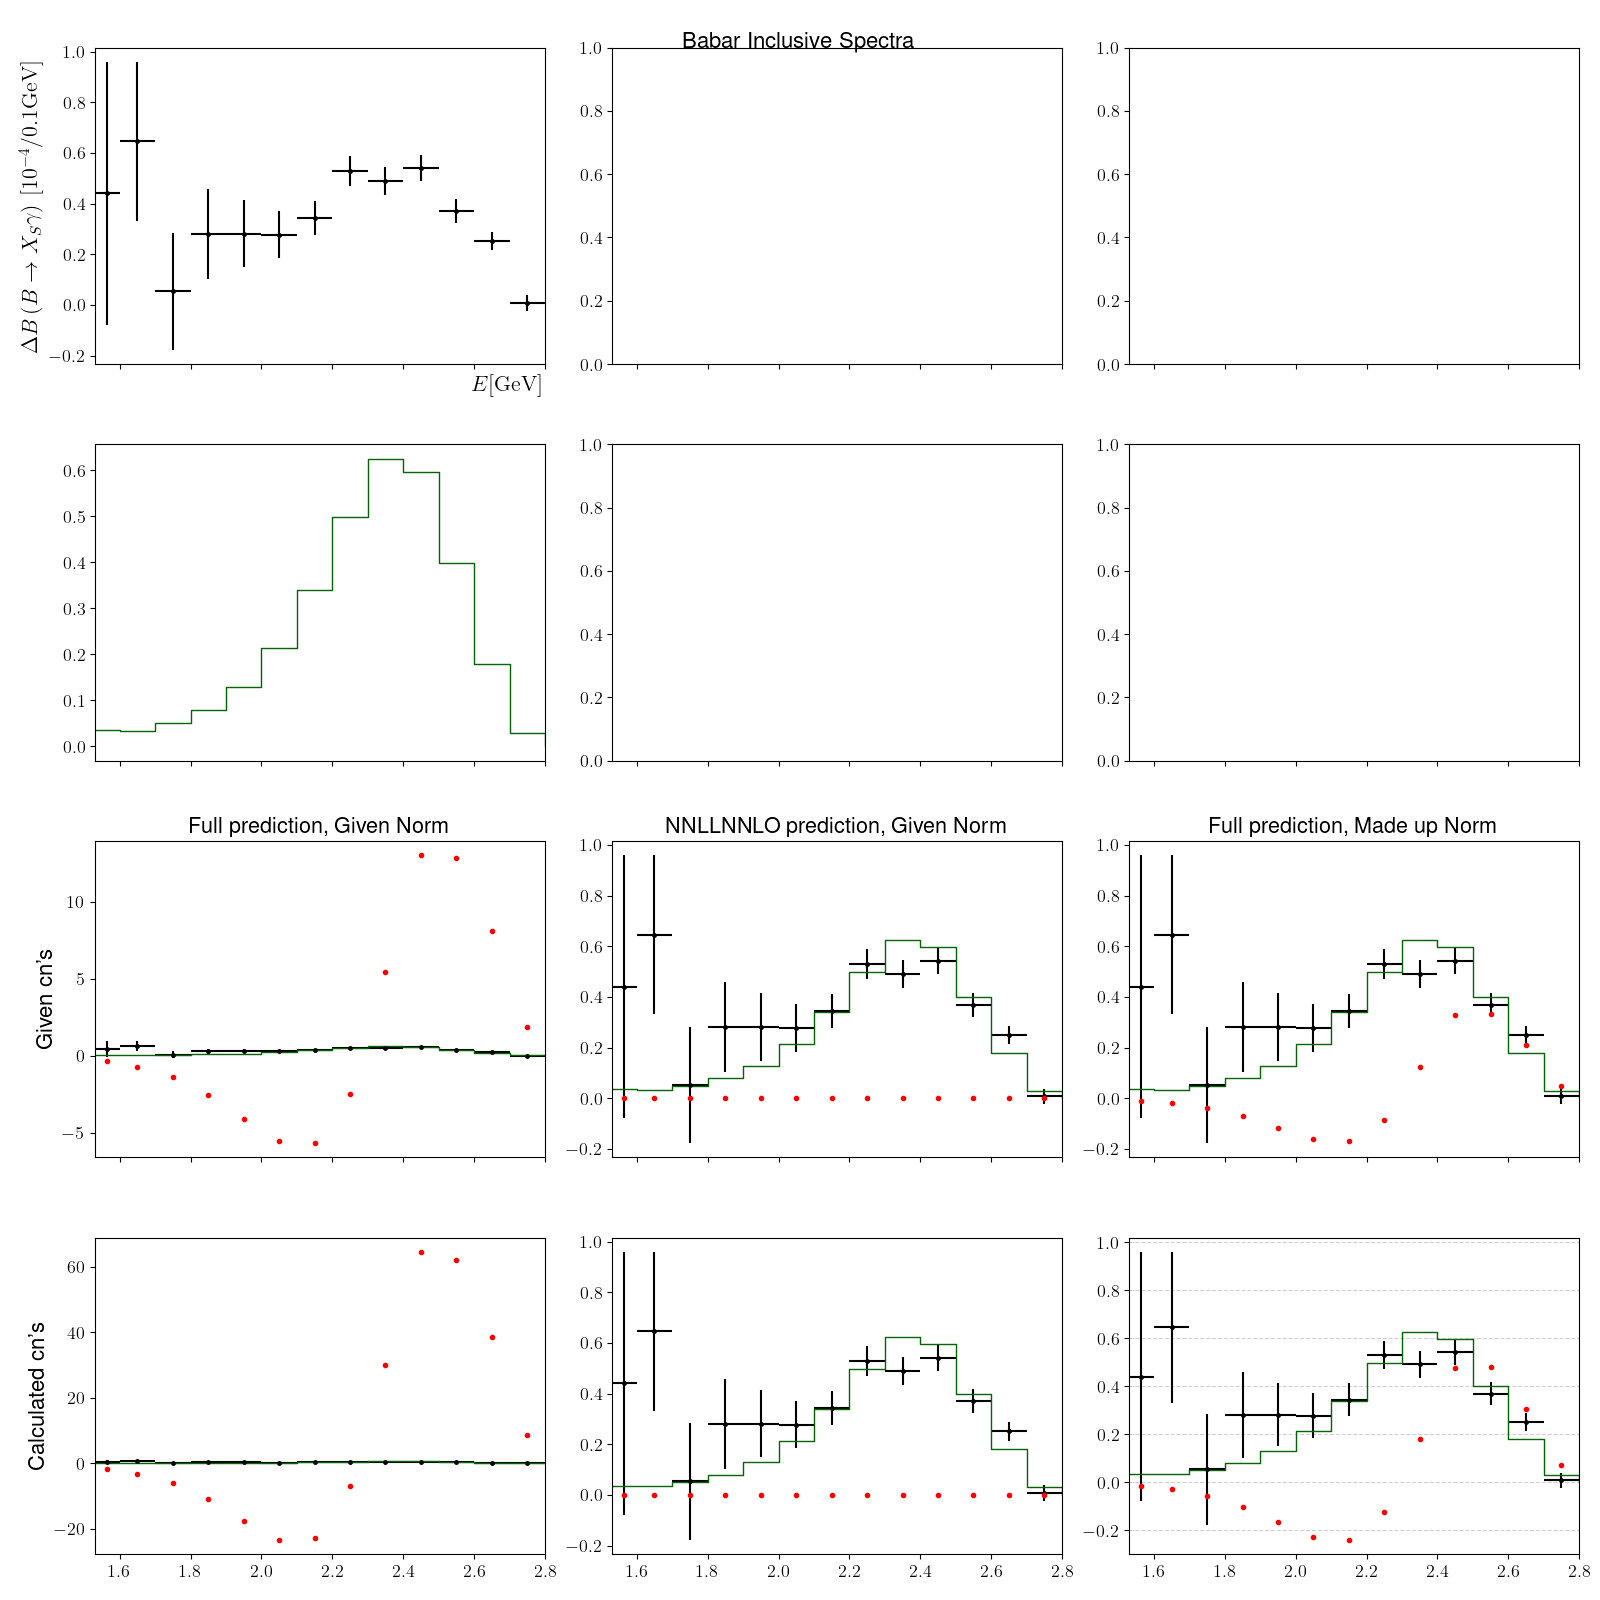
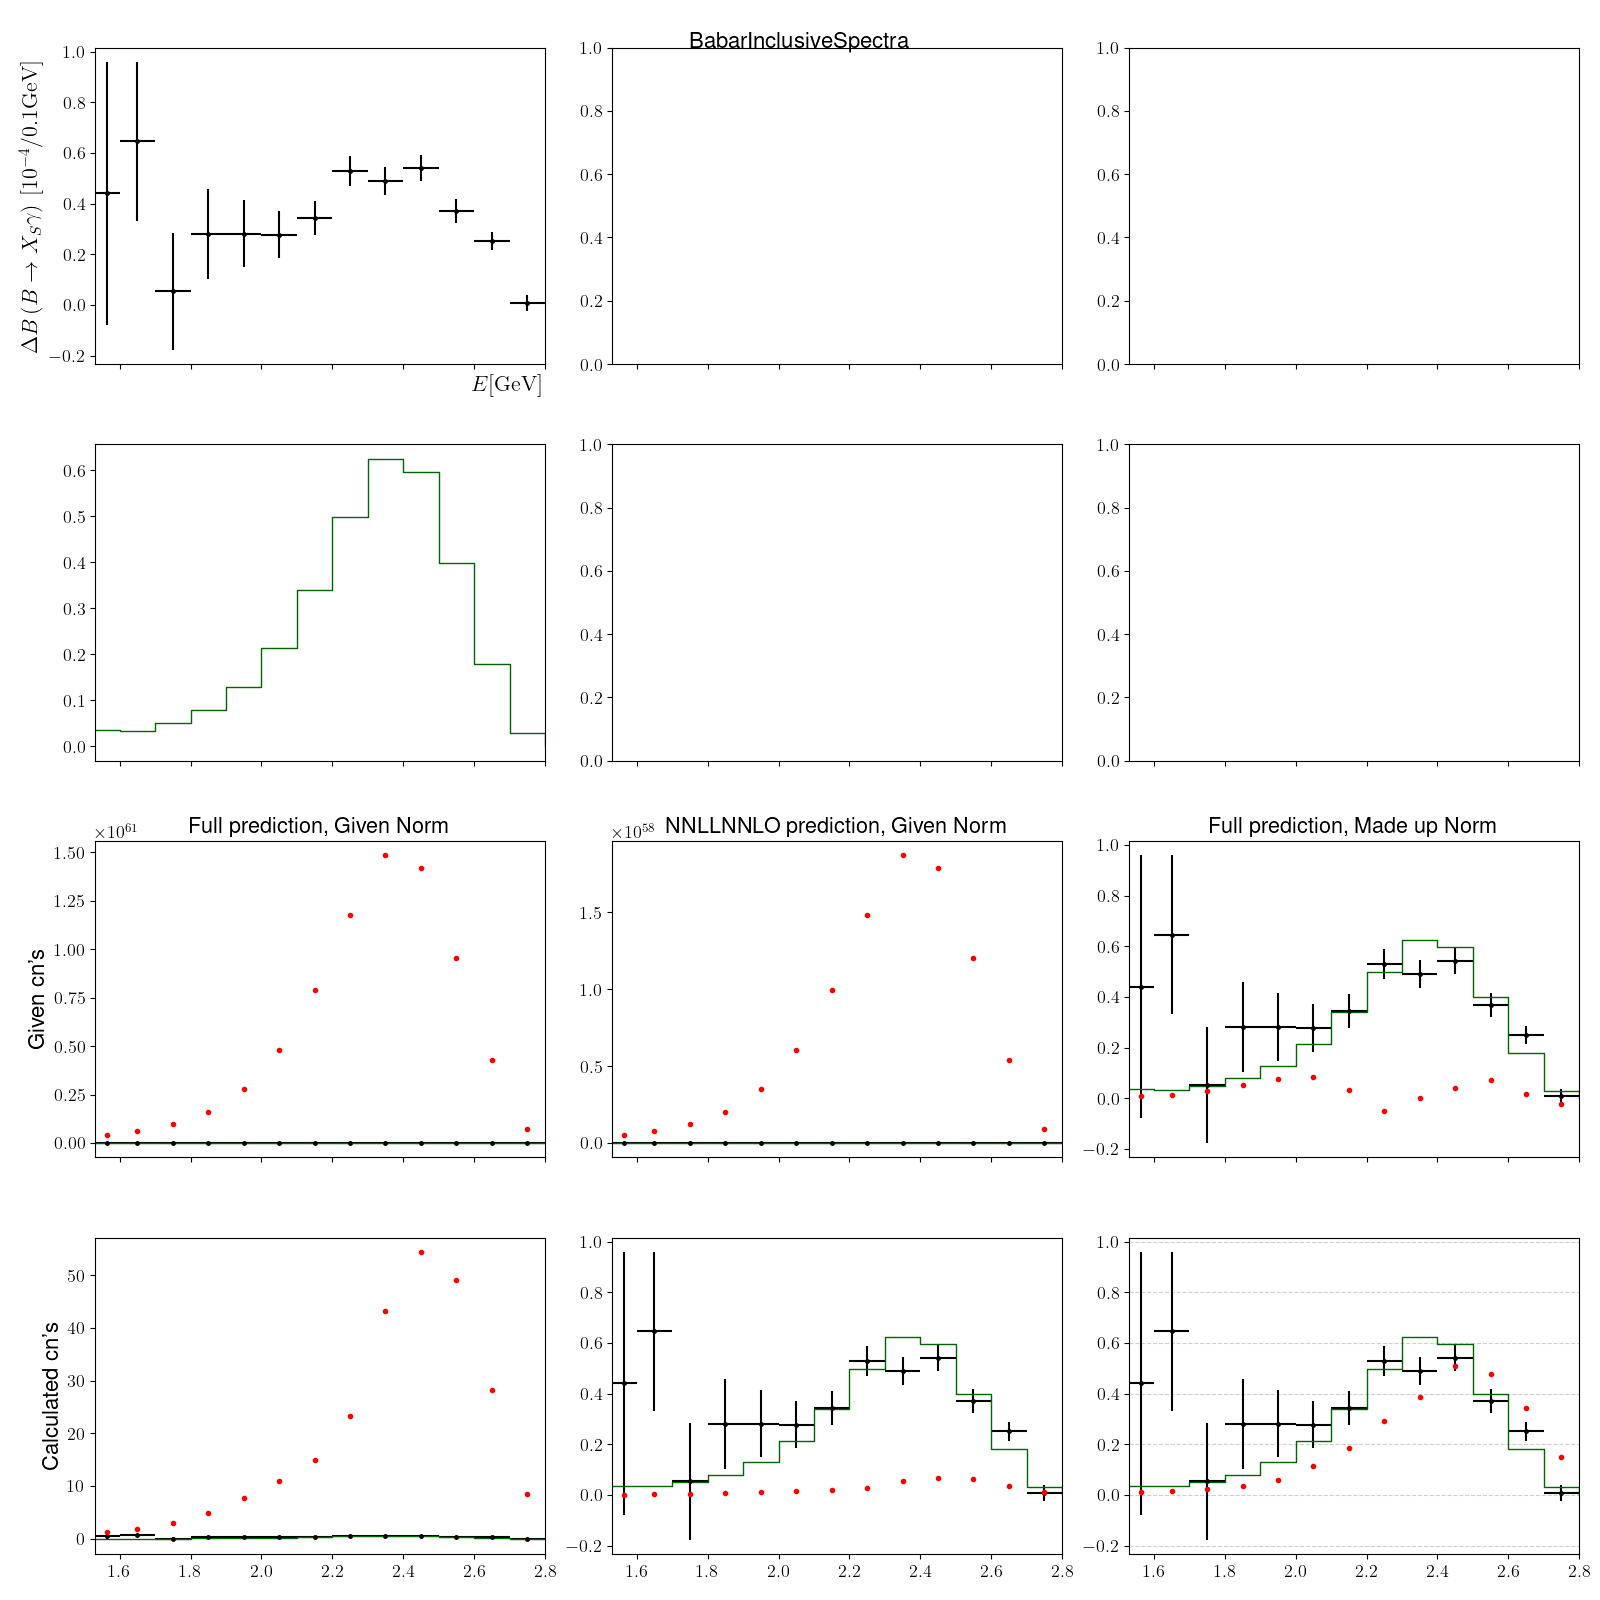
Plot okay for hadtag and incl

diff --git a/Grab.py b/Grab.py
@@ -236,7 +236,7 @@ Tools.store_in_pickle(Fmn_moments, 'theory/Fmn_moments')
 #Experimental dictionary from 'measurements/%key%.root'
 
 # We can change the titles of the Plots here
-data_label_list = ["Babar \newline InclusiveSpectra", "BabarHadronicTag", "BabarSemileptonic", "Belle"]
+data_label_list = ["BabarInclusiveSpectra", "BabarHadronicTag", "BabarSemileptonic", "Belle"]
 
 data_tag_list = ["babar_incl", "babar_hadtag", "babar_sem", "belle"]
 
